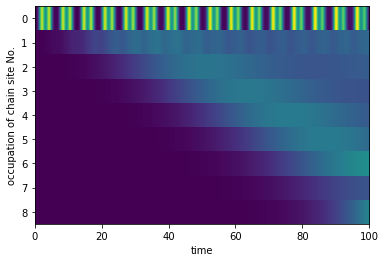
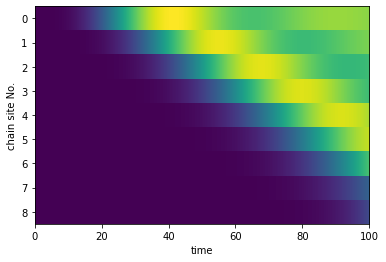
Update documentation

diff --git a/lightcone.html b/lightcone.html
@@ -342,6 +342,16 @@ title="Print to PDF"
    Example: Interaction quench for qubit (atom) in the waveguide
   </a>
  </li>
+ <li class="toc-h2 nav-item toc-entry">
+  <a class="reference internal nav-link" href="#lightcone-allows-us-to-identify-the-relevant-and-irrelevant-degrees-of-freedom">
+   Lightcone allows us to identify the relevant and irrelevant degrees of freedom
+  </a>
+ </li>
+ <li class="toc-h2 nav-item toc-entry">
+  <a class="reference internal nav-link" href="#find-the-time-of-a-new-incoming-chain-site">
+   Find the time of a new incoming chain site
+  </a>
+ </li>
 </ul>
 
     </nav>
@@ -364,6 +374,16 @@ title="Print to PDF"
  <li class="toc-h2 nav-item toc-entry">
   <a class="reference internal nav-link" href="#example-interaction-quench-for-qubit-atom-in-the-waveguide">
    Example: Interaction quench for qubit (atom) in the waveguide
+  </a>
+ </li>
+ <li class="toc-h2 nav-item toc-entry">
+  <a class="reference internal nav-link" href="#lightcone-allows-us-to-identify-the-relevant-and-irrelevant-degrees-of-freedom">
+   Lightcone allows us to identify the relevant and irrelevant degrees of freedom
+  </a>
+ </li>
+ <li class="toc-h2 nav-item toc-entry">
+  <a class="reference internal nav-link" href="#find-the-time-of-a-new-incoming-chain-site">
+   Find the time of a new incoming chain site
   </a>
  </li>
 </ul>
@@ -440,7 +460,7 @@ H\left(t\right) = E_{at}  \sigma_{z} + \sigma_{x} \cdot f(t) + h \sigma_{+} a_{0
 <span class="k">def</span> <span class="nf">f</span><span class="p">(</span><span class="n">t</span><span class="p">):</span>
     <span class="k">return</span><span class="p">(</span><span class="mf">0.1</span><span class="o">*</span><span class="n">np</span><span class="o">.</span><span class="n">cos</span><span class="p">(</span><span class="n">t</span><span class="p">))</span>
 
-<span class="n">Hconst</span> <span class="o">=</span> <span class="n">Eat</span> <span class="o">*</span> <span class="n">sigma_p</span> <span class="o">@</span> <span class="n">sigma_m</span> <span class="o">+</span> <span class="n">sigma_p</span> <span class="o">@</span> <span class="n">a_hat</span><span class="p">[</span><span class="mi">0</span><span class="p">]</span> <span class="o">+</span> <span class="n">sigma_m</span> <span class="o">@</span> <span class="n">a_hat_dag</span><span class="p">[</span><span class="mi">0</span><span class="p">]</span> \
+<span class="n">Hconst</span> <span class="o">=</span> <span class="n">Eat</span> <span class="o">*</span> <span class="n">sigma_p</span> <span class="o">@</span> <span class="n">sigma_m</span> <span class="o">+</span> <span class="n">h</span> <span class="o">*</span> <span class="n">sigma_p</span> <span class="o">@</span> <span class="n">a_hat</span><span class="p">[</span><span class="mi">0</span><span class="p">]</span> <span class="o">+</span> <span class="n">h</span> <span class="o">*</span> <span class="n">sigma_m</span> <span class="o">@</span> <span class="n">a_hat_dag</span><span class="p">[</span><span class="mi">0</span><span class="p">]</span> \
     <span class="o">+</span> <span class="n">e</span> <span class="o">*</span> <span class="nb">sum</span><span class="p">([</span><span class="n">a_hat_dag</span><span class="p">[</span><span class="n">i</span><span class="p">]</span> <span class="o">@</span> <span class="n">a_hat</span><span class="p">[</span><span class="n">i</span><span class="p">]</span> <span class="k">for</span> <span class="n">i</span> <span class="ow">in</span> <span class="nb">range</span><span class="p">(</span><span class="n">m</span><span class="p">)])</span> \
     <span class="o">+</span> <span class="n">h</span> <span class="o">*</span> <span class="nb">sum</span><span class="p">([</span><span class="n">a_hat_dag</span><span class="p">[</span><span class="n">i</span> <span class="o">+</span> <span class="mi">1</span><span class="p">]</span> <span class="o">@</span> <span class="n">a_hat</span><span class="p">[</span><span class="n">i</span><span class="p">]</span> <span class="o">+</span> <span class="n">a_hat_dag</span><span class="p">[</span><span class="n">i</span><span class="p">]</span> <span class="o">@</span> <span class="n">a_hat</span><span class="p">[</span><span class="n">i</span> <span class="o">+</span> <span class="mi">1</span><span class="p">]</span> <span class="k">for</span> <span class="n">i</span> <span class="ow">in</span> <span class="nb">range</span><span class="p">(</span><span class="n">m</span><span class="o">-</span><span class="mi">1</span><span class="p">)])</span>
 
@@ -466,7 +486,7 @@ H\left(t\right) = E_{at}  \sigma_{z} + \sigma_{x} \cdot f(t) + h \sigma_{+} a_{0
 \[
     i\frac{\partial \Psi\left(t\right)}{\partial t} = \widehat{H}\left(t\right)\Psi\left(t\right)
 \]</div>
-<p>and computing the occupations <code> ni[j, i] </code> of the  waveguide sites, <code> ni[j,i] </code> = <span class="math notranslate nohighlight">\( \left\langle\Psi\left(t_i\right)|a_j^{\dagger} a_j|\Psi\left(t_i\right)\right\rangle\)</span>:</p>
+<p>and computing the occupations <code> ni[j, i] </code> of the  waveguide sites, <code> ni[j,i] </code> = <span class="math notranslate nohighlight">\( n_j\left(t\right)=\left\langle\Psi\left(t_i\right)|a_j^{\dagger} a_j|\Psi\left(t_i\right)\right\rangle\)</span>:</p>
 <div class="cell docutils container">
 <div class="cell_input docutils container">
 <div class="highlight-ipython3 notranslate"><div class="highlight"><pre><span></span><span class="kn">import</span> <span class="nn">tools</span>
@@ -495,7 +515,7 @@ H\left(t\right) = E_{at}  \sigma_{z} + \sigma_{x} \cdot f(t) + h \sigma_{+} a_{0
  
 <span class="n">plt</span><span class="o">.</span><span class="n">imshow</span><span class="p">(</span><span class="n">ni</span><span class="p">,</span> <span class="n">cmap</span><span class="o">=</span><span class="s1">&#39;viridis&#39;</span><span class="p">,</span>  <span class="n">aspect</span><span class="o">=</span><span class="s1">&#39;auto&#39;</span><span class="p">,</span> <span class="n">interpolation</span> <span class="o">=</span> <span class="s1">&#39;none&#39;</span><span class="p">)</span>
 <span class="n">plt</span><span class="o">.</span><span class="n">xlabel</span><span class="p">(</span><span class="s1">&#39;time&#39;</span><span class="p">)</span>
-<span class="n">plt</span><span class="o">.</span><span class="n">ylabel</span><span class="p">(</span><span class="s1">&#39;occupation of chain site No.&#39;</span><span class="p">)</span>
+<span class="n">plt</span><span class="o">.</span><span class="n">ylabel</span><span class="p">(</span><span class="s1">&#39;chain site No.&#39;</span><span class="p">)</span>
 <span class="n">plt</span><span class="o">.</span><span class="n">xticks</span><span class="p">([</span><span class="mi">0</span><span class="p">,</span> <span class="mi">2000</span><span class="p">,</span> <span class="mi">4000</span><span class="p">,</span> <span class="mi">6000</span><span class="p">,</span> <span class="mi">8000</span><span class="p">,</span> <span class="mi">10000</span><span class="p">],</span> <span class="n">labels</span><span class="o">=</span><span class="p">[</span><span class="s2">&quot;0&quot;</span><span class="p">,</span> <span class="s2">&quot;20&quot;</span><span class="p">,</span> <span class="s2">&quot;40&quot;</span><span class="p">,</span> <span class="s2">&quot;60&quot;</span><span class="p">,</span> <span class="s2">&quot;80&quot;</span><span class="p">,</span> <span class="s2">&quot;100&quot;</span><span class="p">])</span>
 <span class="n">plt</span><span class="o">.</span><span class="n">show</span><span class="p">()</span>
 </pre></div>
@@ -506,6 +526,129 @@ H\left(t\right) = E_{at}  \sigma_{z} + \sigma_{x} \cdot f(t) + h \sigma_{+} a_{0
 </div>
 </div>
 <p>We observe the lightcone-like spread of disturbance.</p>
+</section>
+<section id="lightcone-allows-us-to-identify-the-relevant-and-irrelevant-degrees-of-freedom">
+<h2>Lightcone allows us to identify the relevant and irrelevant degrees of freedom<a class="headerlink" href="#lightcone-allows-us-to-identify-the-relevant-and-irrelevant-degrees-of-freedom" title="Permalink to this headline">#</a></h2>
+<p>The domain outside the lightcone consists of degrees of freedom which will become significantly excited only in the future. More specifically, for each chain site <span class="math notranslate nohighlight">\(i\)</span> there is a time moment <span class="math notranslate nohighlight">\(t_i\)</span> after which it will become statistically significant for the evolution. We may define a piece-wise continuous function <span class="math notranslate nohighlight">\(m\left(t\right)\)</span> which shows how many sites have coupled to the evolution by the time <span class="math notranslate nohighlight">\(t\)</span>:</p>
+<div class="math notranslate nohighlight">
+\[
+m(t) = \max\{t_i : t_i &lt;= t\}
+\]</div>
+<p>Then when solving the Schrodinger equation, we can include only a finite number <span class="math notranslate nohighlight">\(m\left(t\right)\)</span> of sites into the Hamiltonian:</p>
+<div class="math notranslate nohighlight">
+\[
+    i\frac{\partial \Psi\left(t\right)}{\partial t} = \widehat{H}_m\left(t\right)\Psi\left(t\right)
+\]</div>
+<p>with</p>
+<div class="math notranslate nohighlight">
+\[
+H_m\left(t\right) = E_{at}  \sigma_{z} + \sigma_{x} \cdot f(t) + h \sigma_{+} a_{0} + h a^{\dagger}_{0} \sigma_{-} + \sum\limits_{i=0}^{m\left(t\right)} (\varepsilon a^{\dagger}_{i} a_{i} + h a^{\dagger}_{i+1} a_{i} + h a^{\dagger}_{i} a_{i+1})  
+\]</div>
+</section>
+<section id="find-the-time-of-a-new-incoming-chain-site">
+<h2>Find the time of a new incoming chain site<a class="headerlink" href="#find-the-time-of-a-new-incoming-chain-site" title="Permalink to this headline">#</a></h2>
+<p>We can find the time <span class="math notranslate nohighlight">\(t_i\)</span> using the results of the preceding computation. We introduce a treshold of significance <span class="math notranslate nohighlight">\(a_{cut}\)</span>. Then the time <span class="math notranslate nohighlight">\(t_i\)</span> is defined as a first time when the occupation of the site <span class="math notranslate nohighlight">\(i\)</span> exceeds the  threshold,</p>
+<div class="math notranslate nohighlight">
+\[
+    n_i\left(t\right) &gt; a_{cut}  
+\]</div>
+<p>Here is the program:</p>
+<div class="cell docutils container">
+<div class="cell_input docutils container">
+<div class="highlight-ipython3 notranslate"><div class="highlight"><pre><span></span><span class="n">a_cut</span> <span class="o">=</span> <span class="mi">10</span><span class="o">**</span><span class="p">(</span><span class="o">-</span><span class="mi">5</span><span class="p">)</span>
+
+<span class="n">ti</span> <span class="o">=</span> <span class="p">[</span><span class="mi">0</span><span class="p">]</span>
+<span class="k">for</span> <span class="n">i</span> <span class="ow">in</span> <span class="nb">range</span><span class="p">(</span><span class="n">m</span><span class="p">):</span>
+    <span class="n">ti</span><span class="o">.</span><span class="n">append</span><span class="p">(</span><span class="n">np</span><span class="o">.</span><span class="n">argmax</span><span class="p">(</span><span class="n">ni</span><span class="p">[</span><span class="n">i</span><span class="p">,</span> <span class="p">:]</span> <span class="o">-</span> <span class="n">a_cut</span> <span class="o">&gt;</span> <span class="mi">0</span><span class="p">))</span>
+<span class="n">ti</span><span class="o">.</span><span class="n">append</span><span class="p">(</span><span class="n">nt</span><span class="o">-</span><span class="mi">1</span><span class="p">)</span>
+    
+<span class="n">x</span> <span class="o">=</span> <span class="p">[]</span>
+<span class="n">y</span> <span class="o">=</span> <span class="p">[]</span>
+
+<span class="k">for</span> <span class="n">i</span> <span class="ow">in</span> <span class="nb">range</span><span class="p">(</span><span class="n">m</span><span class="p">):</span>
+    <span class="n">x</span><span class="o">.</span><span class="n">append</span><span class="p">(</span><span class="n">t</span><span class="p">[</span><span class="n">ti</span><span class="p">[</span><span class="n">i</span><span class="p">]])</span>
+    <span class="n">x</span><span class="o">.</span><span class="n">append</span><span class="p">(</span><span class="n">t</span><span class="p">[</span><span class="n">ti</span><span class="p">[</span><span class="n">i</span><span class="o">+</span><span class="mi">1</span><span class="p">]])</span>
+    <span class="n">y</span><span class="o">.</span><span class="n">append</span><span class="p">(</span><span class="n">i</span><span class="p">)</span>
+    <span class="n">y</span><span class="o">.</span><span class="n">append</span><span class="p">(</span><span class="n">i</span><span class="p">)</span>
+
+<span class="n">plt</span><span class="o">.</span><span class="n">xlabel</span><span class="p">(</span><span class="s1">&#39;time&#39;</span><span class="p">)</span>
+<span class="n">plt</span><span class="o">.</span><span class="n">ylabel</span><span class="p">(</span><span class="s1">&#39;number of coupled modes&#39;</span><span class="p">)</span>
+
+<span class="n">plt</span><span class="o">.</span><span class="n">plot</span><span class="p">(</span><span class="n">x</span><span class="p">,</span> <span class="n">y</span><span class="p">)</span>
+</pre></div>
+</div>
+</div>
+<div class="cell_output docutils container">
+<div class="output text_plain highlight-myst-ansi notranslate"><div class="highlight"><pre><span></span>[&lt;matplotlib.lines.Line2D at 0x7f0d1b60da50&gt;]
+</pre></div>
+</div>
+<img alt="_images/lightcone_17_1.png" src="_images/lightcone_17_1.png" />
+</div>
+</div>
+<p>Now let us solve the Schrodinger equation with the full number of modes and compute the
+occupation of the qubit: <code> nq[i] </code>=<span class="math notranslate nohighlight">\(\left\langle\Psi\left(t_i\right)|\sigma_+ \sigma_-|\Psi\left(t_i\right)\right\rangle\)</span></p>
+<div class="cell docutils container">
+<div class="cell_input docutils container">
+<div class="highlight-ipython3 notranslate"><div class="highlight"><pre><span></span><span class="n">nq</span> <span class="o">=</span> <span class="n">np</span><span class="o">.</span><span class="n">zeros</span><span class="p">(</span><span class="n">nt</span><span class="p">)</span>
+
+<span class="k">for</span> <span class="n">i</span><span class="p">,</span> <span class="n">psi</span> <span class="ow">in</span> <span class="n">tools</span><span class="o">.</span><span class="n">evolution</span><span class="p">(</span><span class="n">start_index</span> <span class="o">=</span> <span class="mi">0</span><span class="p">,</span> <span class="n">end_index</span> <span class="o">=</span> <span class="n">nt</span><span class="p">,</span> <span class="n">H</span> <span class="o">=</span> <span class="n">Hi</span><span class="p">,</span> <span class="n">dt</span> <span class="o">=</span> <span class="n">dt</span><span class="p">,</span> <span class="n">initial_state</span> <span class="o">=</span> <span class="n">psi_ini</span><span class="p">):</span>
+    <span class="n">nq</span><span class="p">[</span><span class="n">i</span><span class="p">]</span> <span class="o">=</span> <span class="p">(</span><span class="n">np</span><span class="o">.</span><span class="n">conj</span><span class="p">(</span><span class="n">psi</span><span class="p">)</span> <span class="o">@</span> <span class="n">sigma_p</span> <span class="o">@</span> <span class="n">sigma_m</span> <span class="o">@</span> <span class="n">psi</span><span class="p">)</span><span class="o">.</span><span class="n">real</span>
+              
+<span class="n">plt</span><span class="o">.</span><span class="n">plot</span><span class="p">(</span><span class="n">t</span><span class="p">,</span> <span class="n">nq</span><span class="p">)</span>
+<span class="n">plt</span><span class="o">.</span><span class="n">xlabel</span><span class="p">(</span><span class="s1">&#39;time&#39;</span><span class="p">)</span>
+<span class="n">plt</span><span class="o">.</span><span class="n">ylabel</span><span class="p">(</span><span class="s1">&#39;occupation of qubit&#39;</span><span class="p">)</span>
+</pre></div>
+</div>
+</div>
+<div class="cell_output docutils container">
+<div class="output text_plain highlight-myst-ansi notranslate"><div class="highlight"><pre><span></span>Text(0, 0.5, &#39;occupation of qubit&#39;)
+</pre></div>
+</div>
+<img alt="_images/lightcone_19_1.png" src="_images/lightcone_19_1.png" />
+</div>
+</div>
+<p>Then let us solve the Schrodinger equation but now keeping only <span class="math notranslate nohighlight">\(m\left(t\right)\)</span> modes:</p>
+<div class="cell docutils container">
+<div class="cell_input docutils container">
+<div class="highlight-ipython3 notranslate"><div class="highlight"><pre><span></span><span class="n">nq2</span> <span class="o">=</span> <span class="n">np</span><span class="o">.</span><span class="n">zeros</span><span class="p">(</span><span class="n">nt</span><span class="p">)</span>
+
+<span class="n">psi_begin</span> <span class="o">=</span> <span class="n">np</span><span class="o">.</span><span class="n">copy</span><span class="p">(</span><span class="n">psi_ini</span><span class="p">)</span>
+
+<span class="k">for</span> <span class="n">j</span> <span class="ow">in</span> <span class="nb">range</span><span class="p">(</span><span class="nb">len</span><span class="p">(</span><span class="n">ti</span><span class="p">)</span><span class="o">-</span><span class="mi">1</span><span class="p">):</span>
+    <span class="n">a</span> <span class="o">=</span> <span class="n">ti</span><span class="p">[</span><span class="n">j</span><span class="p">]</span>
+    <span class="n">b</span> <span class="o">=</span> <span class="n">ti</span><span class="p">[</span><span class="n">j</span><span class="o">+</span><span class="mi">1</span><span class="p">]</span>
+    
+    <span class="n">Hmconst</span> <span class="o">=</span> <span class="n">Eat</span> <span class="o">*</span> <span class="n">sigma_p</span> <span class="o">@</span> <span class="n">sigma_m</span> <span class="o">+</span> <span class="n">h</span> <span class="o">*</span> <span class="n">sigma_p</span> <span class="o">@</span> <span class="n">a_hat</span><span class="p">[</span><span class="mi">0</span><span class="p">]</span> <span class="o">+</span> <span class="n">h</span> <span class="o">*</span> <span class="n">sigma_m</span> <span class="o">@</span> <span class="n">a_hat_dag</span><span class="p">[</span><span class="mi">0</span><span class="p">]</span> \
+        <span class="o">+</span> <span class="n">e</span> <span class="o">*</span> <span class="nb">sum</span><span class="p">([</span><span class="n">a_hat_dag</span><span class="p">[</span><span class="n">i</span><span class="p">]</span> <span class="o">@</span> <span class="n">a_hat</span><span class="p">[</span><span class="n">i</span><span class="p">]</span> <span class="k">for</span> <span class="n">i</span> <span class="ow">in</span> <span class="nb">range</span><span class="p">(</span><span class="n">j</span><span class="p">)])</span> \
+        <span class="o">+</span> <span class="n">h</span> <span class="o">*</span> <span class="nb">sum</span><span class="p">([</span><span class="n">a_hat_dag</span><span class="p">[</span><span class="n">i</span> <span class="o">+</span> <span class="mi">1</span><span class="p">]</span> <span class="o">@</span> <span class="n">a_hat</span><span class="p">[</span><span class="n">i</span><span class="p">]</span> <span class="o">+</span> <span class="n">a_hat_dag</span><span class="p">[</span><span class="n">i</span><span class="p">]</span> <span class="o">@</span> <span class="n">a_hat</span><span class="p">[</span><span class="n">i</span> <span class="o">+</span> <span class="mi">1</span><span class="p">]</span> <span class="k">for</span> <span class="n">i</span> <span class="ow">in</span> <span class="nb">range</span><span class="p">(</span><span class="n">j</span><span class="o">-</span><span class="mi">1</span><span class="p">)])</span>
+    
+    <span class="k">def</span> <span class="nf">Hm</span><span class="p">(</span><span class="n">t</span><span class="p">):</span>
+        <span class="k">return</span> <span class="n">Hmconst</span> <span class="o">+</span> <span class="n">f</span><span class="p">(</span><span class="n">t</span><span class="p">)</span> <span class="o">*</span> <span class="n">sigma_x</span>
+    
+    <span class="k">def</span> <span class="nf">Hmi</span><span class="p">(</span><span class="n">ti</span><span class="p">):</span>
+        <span class="k">return</span> <span class="n">H</span><span class="p">(</span><span class="n">ti</span> <span class="o">*</span> <span class="n">dt</span> <span class="o">+</span> <span class="n">dt</span><span class="o">/</span><span class="mi">2</span><span class="p">)</span>
+    
+    <span class="k">for</span> <span class="n">i</span><span class="p">,</span> <span class="n">psi</span> <span class="ow">in</span> <span class="n">tools</span><span class="o">.</span><span class="n">evolution</span><span class="p">(</span><span class="n">start_index</span> <span class="o">=</span> <span class="n">a</span><span class="p">,</span> <span class="n">end_index</span> <span class="o">=</span> <span class="n">b</span><span class="p">,</span> <span class="n">H</span> <span class="o">=</span> <span class="n">Hmi</span><span class="p">,</span> <span class="n">dt</span> <span class="o">=</span> <span class="n">dt</span><span class="p">,</span> <span class="n">initial_state</span> <span class="o">=</span> <span class="n">psi_begin</span><span class="p">):</span>
+        <span class="n">nq2</span><span class="p">[</span><span class="n">i</span><span class="p">]</span> <span class="o">=</span> <span class="p">(</span><span class="n">np</span><span class="o">.</span><span class="n">conj</span><span class="p">(</span><span class="n">psi</span><span class="p">)</span> <span class="o">@</span> <span class="n">sigma_p</span> <span class="o">@</span> <span class="n">sigma_m</span> <span class="o">@</span> <span class="n">psi</span><span class="p">)</span><span class="o">.</span><span class="n">real</span>
+        
+    <span class="n">psi_begin</span> <span class="o">=</span> <span class="n">psi</span>
+              
+<span class="n">plt</span><span class="o">.</span><span class="n">plot</span><span class="p">(</span><span class="n">t</span><span class="p">[:</span><span class="o">-</span><span class="mi">2</span><span class="p">],</span> <span class="n">nq2</span><span class="p">[:</span><span class="o">-</span><span class="mi">2</span><span class="p">],</span> <span class="n">label</span> <span class="o">=</span> <span class="s1">&#39;only inside lightcone&#39;</span><span class="p">)</span>
+<span class="n">plt</span><span class="o">.</span><span class="n">plot</span><span class="p">(</span><span class="n">t</span><span class="p">,</span> <span class="n">nq</span><span class="p">,</span> <span class="n">label</span> <span class="o">=</span> <span class="s1">&#39;all sites&#39;</span><span class="p">)</span>
+<span class="n">plt</span><span class="o">.</span><span class="n">legend</span><span class="p">()</span>
+<span class="n">plt</span><span class="o">.</span><span class="n">xlabel</span><span class="p">(</span><span class="s1">&#39;time&#39;</span><span class="p">)</span>
+<span class="n">plt</span><span class="o">.</span><span class="n">ylabel</span><span class="p">(</span><span class="s1">&#39;occupation of qubit&#39;</span><span class="p">)</span>
+</pre></div>
+</div>
+</div>
+<div class="cell_output docutils container">
+<div class="output text_plain highlight-myst-ansi notranslate"><div class="highlight"><pre><span></span>Text(0, 0.5, &#39;occupation of qubit&#39;)
+</pre></div>
+</div>
+<img alt="_images/lightcone_21_1.png" src="_images/lightcone_21_1.png" />
+</div>
+</div>
+<p>We see that the lighcone works!</p>
 </section>
 </section>
 

diff --git a/searchindex.js b/searchindex.js
@@ -1,1 +1,1 @@
-Search.setIndex({docnames:["intro","lightcone","markdown-notebooks","welcome"],envversion:{"sphinx.domains.c":2,"sphinx.domains.changeset":1,"sphinx.domains.citation":1,"sphinx.domains.cpp":4,"sphinx.domains.index":1,"sphinx.domains.javascript":2,"sphinx.domains.math":2,"sphinx.domains.python":3,"sphinx.domains.rst":2,"sphinx.domains.std":2,"sphinx.ext.intersphinx":1,"sphinxcontrib.bibtex":9,sphinx:56},filenames:["intro.md","lightcone.ipynb","markdown-notebooks.md","welcome.md"],objects:{},objnames:{},objtypes:{},terms:{"0":[0,1],"01":1,"05":1,"0x7f13b4598e20":[],"0x7f54707fce20":[],"0x7f64183c4e20":[],"0x7f74bc58ce20":[],"0x7f77903a44f0":[],"0x7f9929ba8e20":[],"0x7fd58783c040":[],"0x7fe78b09ce20":[],"0x7fee37114e20":[],"1":[0,1],"10":[],"100":1,"10000":1,"101":[],"103":[],"105":[],"11":[],"110":[],"112":[],"114":[],"116":[],"117":[],"12":[],"1255":[],"1256":[],"1258":[],"1259":[],"1260":[],"1261":[],"1262":[],"1263":[],"1264":[],"1265":[],"1267":[],"1268":[],"13":[],"14":[],"15":[],"19680801":[],"1j":[],"2":[0,1,2],"20":1,"2000":1,"2014":[],"3":1,"359":[],"360":[],"4":[1,2],"40":1,"4000":1,"470":[],"471":[],"472":[],"473":[],"474":[],"5":[],"6":[],"60":1,"6000":1,"7":1,"80":1,"8000":1,"9":1,"97":[],"99":[],"case":0,"default":2,"do":[],"function":0,"import":1,"return":1,"var":0,A:[],As:1,But:[],By:[],For:[],If:2,In:[0,1],It:0,No:1,That:[1,2],The:[0,2,3],Then:1,There:[],These:0,With:2,_:[0,1],__add__:[],__class__:[],_add_spars:[],_base:[],_binopt:[],_compress:[],_cs_matrix:[],_ioncontext:[],_plus_:[],a_:1,a_hat:1,a_hat_dag:1,a_j:1,ab:[],about:[0,2],accept:[],act:1,add_:[],aim:3,align:[],all:2,allow:0,along:1,also:[1,2],alterant:1,alwai:1,an:0,ani:2,annihil:1,approxim:0,apriori:0,ar:[0,1,2],arang:1,arrai:[],asarrai:[],aspect:1,auditori:[],australia:[],auto:1,ax:[],b_hat:1,b_hat_dag:1,base:2,basic:3,becom:1,begin:[],being:[],beta:0,between:0,bib:[],bibliographi:[],bibtex:[],block:2,book:2,bose:1,boson:1,both:[],box:[],brian:[],brisban:[],broadcast_to:[],build:[],built:2,bundl:[],call:[],can:[0,1,2],canon:0,cdot:1,cell:[],chain:1,character:[],check:[],christoph:[],cite:[],cm:[],cmap:1,co:1,code:2,cognit:[],cold:[],color:[],command:2,commonmark:[],compar:0,complex:1,compon:1,comput:[0,1,3],concept:3,condens:1,confer:[],conj:1,consid:1,constant:1,content:2,convert:2,coolwarm:[],correspond:1,cortex:[],coupl:0,creat:1,creation:1,custom_lin:[],cycler:[],d:2,dagger:1,data:[],de:[],decai:0,def:1,defin:[1,2],degre:[0,1],delta:0,densiti:0,depend:[],depth:[],detail:2,develop:[0,3],differ:0,difficult:3,difficulti:1,dimens:1,dirac:0,direct:2,directli:0,discrep:0,displai:2,distribut:[0,1],disturb:1,divid:0,document:2,doe:0,dollar:[],drive:1,dt:1,dtype:1,due:1,e:[0,1],e_:1,each:0,easili:0,eat:1,ecosystem:[],effici:0,elif:[],els:[],emb:[],emploi:0,empti:[],end:[],end_index:1,end_tim:[],energi:[0,1],equat:[0,1],equilibrium:[0,1],err:[],escap:[],estim:0,etc:[],evid:[],evolut:1,exampl:[],excit:1,execut:2,exhibit:0,exist:1,exp:0,expon:0,exponenti:0,exponentiallli:0,express:0,extens:[],f:[0,1],f_:0,feel:[],few:[],fig:[],figsiz:[],file:2,finit:0,fix:[],flavor:[],fluoresc:1,fn:[],fock:1,fock_spac:1,fock_space_kron:1,follow:[1,2],formal:0,frac:[0,1],framework:3,free:0,freedom:[0,1],frenkel:0,frequenc:1,from:[],frontier:[],fs_chain:1,g:0,gener:0,geq:0,get:2,gibb:[0,1],gibbs_eq:[],give:[],given:[0,1],global:0,go:[],gradual:1,grid:1,ground:1,guid:[],h:[0,1],h_mid:[],ha:1,hamiltonian:[0,1],have:[0,1,2],hconst:1,hdhpk14:[],heer:[],help:[],here:1,hi:1,high:0,hilbert:1,holdgraf:[],holdgraf_evidence_2014:[],hop:1,hot:[],how:[0,2],hs_atom:1,hs_joint:1,html:[],human:[],i:[0,1],identif:[],idx_dtyp:[],ii:[],illustr:1,imag:[],implicit:1,imshow:1,includ:2,inconsist:[],inde:0,indic:[],indptr:[],inferior:0,inform:2,infti:1,init:2,initi:1,initial_st:1,inlin:[],input:[],insert:[],insignific:0,instruct:2,interact:[],intern:[],interpol:1,introduc:0,ion:[],ipynb:[],irrelev:0,isdens:[],j:1,joint:1,jupyt:2,jupyterbook:[],jupytext:2,just:[],k:1,keep:[],kernel:2,keyboardinterrupt:[],kind:[],knight:[],know:0,knowledg:[],la_:[],label:1,langl:[0,1],languag:[],laser:1,last:0,latter:1,lead:0,left:[0,1],legend:[],let:[1,2],level:1,lib64:[],lieb:3,like:[1,2],limits_:1,line2d:[],line:2,linspac:[],ll:[],ln:0,local:0,logspac:[],lot:[],lw:[],m:1,major:[],make:[],mani:[0,2,3],markdown:3,markdownfil:2,markedli:[],markup:[],math:[],matplotlib:1,matrix:0,matter:[1,3],max:[],max_total_occup:1,maxnnz:[],mbox:[],mclachlan:0,md:2,mean:[],medium:[],mere:0,method:1,midpoint:1,minim:0,mode:1,model:1,moment:0,more:[0,2],moreov:[],most:[],motion:3,much:0,must:[],myst:3,n:1,need:2,neurosci:[],ni:1,non:[1,3],none:1,nonstationari:[1,3],note:[],notebook:3,noth:0,np:1,nt:1,num_mod:1,numpi:1,observ:1,obtain:0,occup:1,off:2,one:[0,1],ones:0,onli:1,op:[],oper:1,org:[],oscil:0,other:2,out:1,output:2,overview:[],packag:[],page:2,partial:[0,1],particl:[0,3],particular:[],paslei:[],path:2,plot:[],plt:1,point:0,post:[],potenti:0,power:[],predict:[],presenc:2,principl:0,print:2,problem:[],procedur:[],produc:[],product:1,program:1,project:1,prop_cycl:[],propag:1,properli:[],properti:0,propos:1,provid:1,prune:[],psi:[0,1],psi_ini:1,psi_mid:[],psi_mid_next:[],purpos:[],py:[],pyplot:1,python3:[],python:1,quanta:1,quantum:3,quench:0,rais:[],ramsai:[],randn:[],random:[],rang:1,rangl:[0,1],rcparam:[],real:1,reason:0,recent:[],refer:[],regular:[],relev:0,render:[],repres:1,reproduc:[],respect:0,rest:2,result:1,rho:0,right:[0,1],robert:[],robinson:3,run:2,s:2,sai:0,same:[],sampl:[],scale:0,scheme:[],schroding:[0,1],scipi:[],secondqu:1,see:2,seed:[],self:[],serv:[],shape:[],should:2,show:[1,2],side:0,sigma_:1,sigma_m:1,sigma_p:1,sigma_x:1,sigmax:1,sign:[],signific:0,similar:[],simpl:[],site:1,size:1,slight:[],small:[],so:2,solv:1,some:[],space:1,span:[],spars:[],special:[],specif:1,sphinx:[],spmatrix:[],spread:1,sq:1,stand:[],start:[1,2],start_index:1,start_tim:[],starter:[],state:[0,1],stationari:3,statist:[0,1],step:1,stop:1,store:[],structur:[],subplot:[],suddenli:1,sum:1,support:2,suppos:1,supress:0,sure:[],swp:[],syntax:[],t:[0,1],t_i:1,target:0,tell:0,temperatur:0,tensor:1,tex:[],text:2,textrm:0,than:0,thei:[],theoret:3,therefor:[0,1],thermodynam:0,thi:[0,1,2],thing:2,those:[],ti:1,time:[0,1],tmax:1,tol:[],tool:1,top:2,topic:[],total:1,tr:0,traceback:[],transit:1,treat:2,tri:0,trial:0,truncat:1,turn:1,two:[1,2],type:[],understand:2,univers:3,upcast:[],us:[0,1,2,3],use_index:[],usr:[],valueerror:[],varepsilon:1,variant:0,variat:0,vert:0,via:1,viridi:1,visual:1,wai:1,want:[],wavefunct:1,we:[0,1],well:[],wendi:[],what:0,when:2,wherea:[],whether:[],which:[0,1,2],whole:0,why:3,wide:0,widehat:[0,1],work:[],write:2,written:2,x:1,xlabel:1,xtick:1,yield:[],ylabel:1,you:2,your:2,z:1,zero:1},titles:["Why nonstationary quantum motion is difficult?","The Lieb-Robinson lightcone","Notebooks with MyST Markdown","Welcome to the LIGHTCONES project"],titleterms:{"0":[],"1":[],A:[],The:1,_:[],a_:[],add:2,an:2,atom:1,block:[],book:[],cdot:[],cell:2,citat:[],code:[],content:[],creat:2,dagger:[],difficult:0,direct:[],e_:[],exampl:[1,2],f:[],file:[],framework:[],h:[],i:[],infti:[],interact:1,jupyt:[],learn:[],left:[],lieb:1,lightcon:[1,3],limits_:[],markdown:2,matter:[],metadata:2,more:[],motion:0,myst:2,non:[],nonstationari:0,notebook:2,output:[],principl:[],project:3,quantum:0,qubit:1,quench:1,quickli:2,right:[],robinson:1,role:[],sampl:[],sigma_:[],stationari:[],sum:[],t:[],theoret:[],varepsilon:[],variat:[],waveguid:1,welcom:3,what:[],why:0,x:[],yaml:2,your:[],z:[]}})
+Search.setIndex({docnames:["intro","lightcone","markdown-notebooks","welcome"],envversion:{"sphinx.domains.c":2,"sphinx.domains.changeset":1,"sphinx.domains.citation":1,"sphinx.domains.cpp":4,"sphinx.domains.index":1,"sphinx.domains.javascript":2,"sphinx.domains.math":2,"sphinx.domains.python":3,"sphinx.domains.rst":2,"sphinx.domains.std":2,"sphinx.ext.intersphinx":1,"sphinxcontrib.bibtex":9,sphinx:56},filenames:["intro.md","lightcone.ipynb","markdown-notebooks.md","welcome.md"],objects:{},objnames:{},objtypes:{},terms:{"0":[0,1],"01":1,"05":1,"0x7f0d1b60da50":1,"0x7f13b4598e20":[],"0x7f54707fce20":[],"0x7f64183c4e20":[],"0x7f74bc58ce20":[],"0x7f77903a44f0":[],"0x7f9929ba8e20":[],"0x7fd58783c040":[],"0x7fe78b09ce20":[],"0x7fee37114e20":[],"1":[0,1],"10":1,"100":1,"10000":1,"101":[],"103":[],"105":[],"11":[],"110":[],"112":[],"114":[],"116":[],"117":[],"12":[],"1255":[],"1256":[],"1258":[],"1259":[],"1260":[],"1261":[],"1262":[],"1263":[],"1264":[],"1265":[],"1267":[],"1268":[],"13":[],"14":[],"15":[],"19680801":[],"1j":[],"2":[0,1,2],"20":1,"2000":1,"2014":[],"3":1,"359":[],"360":[],"4":[1,2],"40":1,"4000":1,"470":[],"471":[],"472":[],"473":[],"474":[],"5":1,"6":[],"60":1,"6000":1,"7":1,"80":1,"8000":1,"9":1,"97":[],"99":[],"case":0,"default":2,"do":[],"function":[0,1],"import":1,"return":1,"var":0,A:[],As:1,But:[],By:[],For:[],If:2,In:[0,1],It:0,No:1,That:[1,2],The:[0,2,3],Then:1,There:[],These:0,With:2,_:[0,1],__add__:[],__class__:[],_add_spars:[],_base:[],_binopt:[],_compress:[],_cs_matrix:[],_ioncontext:[],_m:1,_plus_:[],a_:1,a_cut:1,a_hat:1,a_hat_dag:1,a_j:1,ab:[],about:[0,2],accept:[],act:1,add_:[],after:1,aim:3,align:[],all:[1,2],allow:0,along:1,also:[1,2],alterant:1,alwai:1,an:0,ani:2,annihil:1,append:1,approxim:0,apriori:0,ar:[0,1,2],arang:1,argmax:1,arrai:[],asarrai:[],aspect:1,auditori:[],australia:[],auto:1,ax:[],b:1,b_hat:1,b_hat_dag:1,base:2,basic:3,becom:1,begin:[],being:[],beta:0,between:0,bib:[],bibliographi:[],bibtex:[],block:2,book:2,bose:1,boson:1,both:[],box:[],brian:[],brisban:[],broadcast_to:[],build:[],built:2,bundl:[],call:[],can:[0,1,2],canon:0,cdot:1,cell:[],chain:[],character:[],check:[],christoph:[],cite:[],cm:[],cmap:1,co:1,code:2,cognit:[],cold:[],color:[],command:2,commonmark:[],compar:0,complex:1,compon:1,comput:[0,1,3],concept:3,condens:1,confer:[],conj:1,consid:1,consist:1,constant:1,content:2,continu:1,convert:2,coolwarm:[],copi:1,correspond:1,cortex:[],coupl:[0,1],creat:1,creation:1,custom_lin:[],cut:1,cycler:[],d:2,dagger:1,data:[],de:[],decai:0,def:1,defin:[1,2],degre:0,delta:0,densiti:0,depend:[],depth:[],detail:2,develop:[0,3],differ:0,difficult:3,difficulti:1,dimens:1,dirac:0,direct:2,directli:0,discrep:0,displai:2,distribut:[0,1],disturb:1,divid:0,document:2,doe:0,dollar:[],domain:1,drive:1,dt:1,dtype:1,due:1,e:[0,1],e_:1,each:[0,1],easili:0,eat:1,ecosystem:[],effici:0,elif:[],els:[],emb:[],emploi:0,empti:[],end:[],end_index:1,end_tim:[],energi:[0,1],equat:[0,1],equilibrium:[0,1],err:[],escap:[],estim:0,etc:[],evid:[],evolut:1,exampl:[],exce:1,excit:1,execut:2,exhibit:0,exist:1,exp:0,expon:0,exponenti:0,exponentiallli:0,express:0,extens:[],f:[0,1],f_:0,feel:[],few:[],fig:[],figsiz:[],file:2,finit:[0,1],first:1,fix:[],flavor:[],fluoresc:1,fn:[],fock:1,fock_spac:1,fock_space_kron:1,follow:[1,2],formal:0,frac:[0,1],framework:3,free:0,freedom:0,frenkel:0,frequenc:1,from:[],frontier:[],fs_chain:1,full:1,futur:1,g:0,gener:0,geq:0,get:2,gibb:[0,1],gibbs_eq:[],give:[],given:[0,1],global:0,go:[],gradual:1,grid:1,ground:1,guid:[],h:[0,1],h_m:1,h_mid:[],ha:1,hamiltonian:[0,1],have:[0,1,2],hconst:1,hdhpk14:[],heer:[],help:[],here:1,hi:1,high:0,hilbert:1,hm:1,hmconst:1,hmi:1,holdgraf:[],holdgraf_evidence_2014:[],hop:1,hot:[],how:[0,1,2],hs_atom:1,hs_joint:1,html:[],human:[],i:[0,1],identif:[],idx_dtyp:[],ii:[],illustr:1,imag:[],implicit:1,imshow:1,includ:[1,2],inconsist:[],inde:0,indic:[],indptr:[],inferior:0,inform:2,infti:1,init:2,initi:1,initial_st:1,inlin:[],input:[],insert:[],insid:1,insignific:0,instruct:2,interact:[],intern:[],interpol:1,introduc:[0,1],ion:[],ipynb:[],irrelev:0,isdens:[],j:1,joint:1,jupyt:2,jupyterbook:[],jupytext:2,just:[],k:1,keep:1,kernel:2,keyboardinterrupt:[],kind:[],knight:[],know:0,knowledg:[],la_:[],label:1,langl:[0,1],languag:[],laser:1,last:0,latter:1,lead:0,left:[0,1],legend:1,len:1,let:[1,2],level:1,lib64:[],lieb:3,lighcon:1,like:[1,2],limits_:1,line2d:1,line:[1,2],linspac:[],ll:[],ln:0,local:0,logspac:[],lot:[],lw:[],m:1,mai:1,major:[],make:[],mani:[0,1,2,3],markdown:3,markdownfil:2,markedli:[],markup:[],math:[],matplotlib:1,matrix:0,matter:[1,3],max:1,max_total_occup:1,maxnnz:[],mbox:[],mclachlan:0,md:2,mean:[],medium:[],mere:0,method:1,midpoint:1,minim:0,mode:1,model:1,moment:[0,1],more:[0,1,2],moreov:[],most:[],motion:3,much:0,must:[],myst:3,n:1,n_i:1,n_j:1,need:2,neurosci:[],ni:1,non:[1,3],none:1,nonstationari:[1,3],note:[],notebook:3,noth:0,now:1,np:1,nq2:1,nq:1,nt:1,num_mod:1,number:1,numpi:1,observ:1,obtain:0,occup:1,off:2,one:[0,1],ones:0,onli:1,op:[],oper:1,org:[],oscil:0,other:2,out:1,output:2,outsid:1,overview:[],packag:[],page:2,partial:[0,1],particl:[0,3],particular:[],paslei:[],path:2,piec:1,plot:1,plt:1,point:0,post:[],potenti:0,power:[],preced:1,predict:[],presenc:2,principl:0,print:2,problem:[],procedur:[],produc:[],product:1,program:1,project:1,prop_cycl:[],propag:1,properli:[],properti:0,propos:1,provid:1,prune:[],psi:[0,1],psi_begin:1,psi_ini:1,psi_mid:[],psi_mid_next:[],purpos:[],py:[],pyplot:1,python3:[],python:1,quanta:1,quantum:3,quench:0,rais:[],ramsai:[],randn:[],random:[],rang:1,rangl:[0,1],rcparam:[],real:1,reason:0,recent:[],refer:[],regular:[],relev:0,render:[],repres:1,reproduc:[],respect:0,rest:2,result:1,rho:0,right:[0,1],robert:[],robinson:3,run:2,s:2,sai:0,same:[],sampl:[],scale:0,scheme:[],schroding:[0,1],scipi:[],secondqu:1,see:[1,2],seed:[],self:[],serv:[],shape:[],should:2,show:[1,2],side:0,sigma_:1,sigma_m:1,sigma_p:1,sigma_x:1,sigmax:1,sign:[],signific:[0,1],significantli:1,similar:[],simpl:[],site:[],size:1,slight:[],small:[],so:2,solv:1,some:[],space:1,span:[],spars:[],special:[],specif:1,sphinx:[],spmatrix:[],spread:1,sq:1,stand:[],start:[1,2],start_index:1,start_tim:[],starter:[],state:[0,1],stationari:3,statist:[0,1],step:1,stop:1,store:[],structur:[],subplot:[],suddenli:1,sum:1,support:2,suppos:1,supress:0,sure:[],swp:[],syntax:[],t:[0,1],t_i:1,target:0,tell:0,temperatur:0,tensor:1,tex:[],text:[1,2],textrm:0,than:0,thei:[],theoret:3,therefor:[0,1],thermodynam:0,thi:[0,1,2],thing:2,those:[],threshold:1,ti:1,time:0,tmax:1,tol:[],tool:1,top:2,topic:[],total:1,tr:0,traceback:[],transit:1,treat:2,treshold:1,tri:0,trial:0,truncat:1,turn:1,two:[1,2],type:[],understand:2,univers:3,upcast:[],us:[0,2,3],use_index:[],usr:[],valueerror:[],varepsilon:1,variant:0,variat:0,vert:0,via:1,viridi:1,visual:1,wai:1,want:[],wavefunct:1,we:[0,1],well:[],wendi:[],what:0,when:[1,2],wherea:[],whether:[],which:[0,1,2],whole:0,why:3,wide:0,widehat:[0,1],wise:1,work:1,write:2,written:2,x:1,xlabel:1,xtick:1,y:1,yield:[],ylabel:1,you:2,your:2,z:1,zero:1},titles:["Why nonstationary quantum motion is difficult?","The Lieb-Robinson lightcone","Notebooks with MyST Markdown","Welcome to the LIGHTCONES project"],titleterms:{"0":[],"1":[],"new":1,A:[],The:1,_:[],a_:[],add:2,allow:1,an:2,atom:1,block:[],book:[],cdot:[],cell:2,chain:1,citat:[],code:[],content:[],creat:2,dagger:[],degre:1,difficult:0,direct:[],e_:[],exampl:[1,2],f:[],file:[],find:1,framework:[],freedom:1,h:[],i:[],identifi:1,incom:1,infti:[],interact:1,irrelev:1,jupyt:[],learn:[],left:[],lieb:1,lightcon:[1,3],limits_:[],markdown:2,matter:[],metadata:2,more:[],motion:0,myst:2,non:[],nonstationari:0,notebook:2,output:[],principl:[],project:3,quantum:0,qubit:1,quench:1,quickli:2,relev:1,right:[],robinson:1,role:[],sampl:[],sigma_:[],site:1,stationari:[],sum:[],t:[],theoret:[],time:1,us:1,varepsilon:[],variat:[],waveguid:1,welcom:3,what:[],why:0,x:[],yaml:2,your:[],z:[]}})
